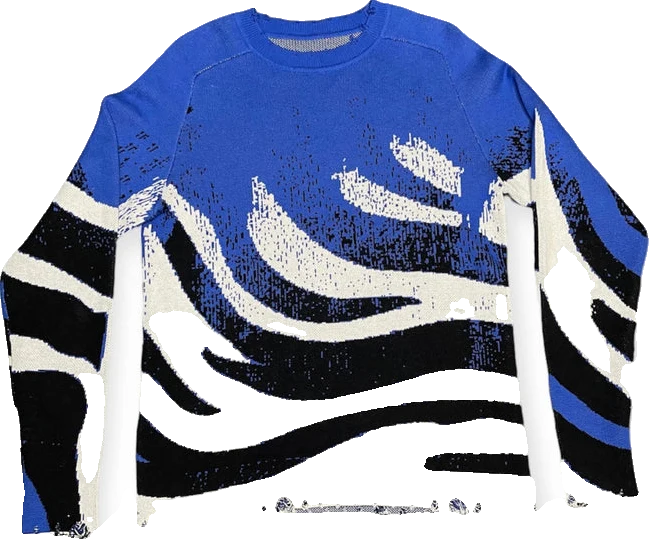
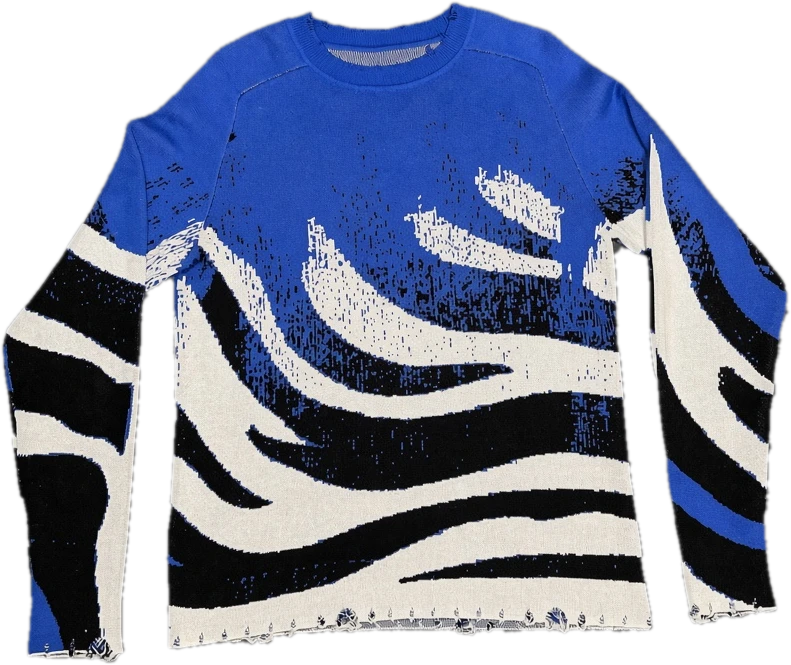
Dark cinematic closet: intro doors, tucked hangers, AI garment renders, cloth physics

diff --git a/app.js b/app.js
@@ -1,14 +1,24 @@
 const $=s=>document.querySelector(s),fmt=n=>'$'+n.toFixed(2),P=window.PRODUCTS;
 const MODEL=['the-essential-mooment-sets-gray','the-essential-mooment-sets-blue'];
 const sets={clothes:P.filter(p=>!p.bag),bags:P.filter(p=>p.bag)};
-const HANGER=`<svg class="hanger" viewBox="0 0 300 120" aria-hidden="true"><defs><linearGradient id="w" x1="0" y1="0" x2="0" y2="1"><stop offset="0" stop-color="#c79a63"/><stop offset=".5" stop-color="#9a6a3a"/><stop offset="1" stop-color="#6e4624"/></linearGradient><linearGradient id="c" x1="0" x2="1"><stop offset="0" stop-color="#8d8d94"/><stop offset=".5" stop-color="#f7f7f9"/><stop offset="1" stop-color="#7a7a82"/></linearGradient></defs><path d="M150 58 C150 40 150 34 150 30 C150 14 168 10 168 24" fill="none" stroke="url(#c)" stroke-width="5" stroke-linecap="round"/><circle cx="150" cy="60" r="7" fill="url(#c)"/><path d="M150 60 Q100 74 18 104 Q8 108 12 114 L288 114 Q292 108 282 104 Q200 74 150 60Z" fill="url(#w)"/><path d="M20 112 L280 112" stroke="#5a381b" stroke-width="3"/></svg>`;
+const OLD_HANGER=`<svg class="hanger" viewBox="0 0 300 120" aria-hidden="true"><defs><linearGradient id="w" x1="0" y1="0" x2="0" y2="1"><stop offset="0" stop-color="#c79a63"/><stop offset=".5" stop-color="#9a6a3a"/><stop offset="1" stop-color="#6e4624"/></linearGradient><linearGradient id="c" x1="0" x2="1"><stop offset="0" stop-color="#8d8d94"/><stop offset=".5" stop-color="#f7f7f9"/><stop offset="1" stop-color="#7a7a82"/></linearGradient></defs><path d="M150 58 C150 40 150 34 150 30 C150 14 168 10 168 24" fill="none" stroke="url(#c)" stroke-width="5" stroke-linecap="round"/><circle cx="150" cy="60" r="7" fill="url(#c)"/><path d="M150 60 Q100 74 18 104 Q8 108 12 114 L288 114 Q292 108 282 104 Q200 74 150 60Z" fill="url(#w)"/><path d="M20 112 L280 112" stroke="#5a381b" stroke-width="3"/></svg>`;
+const HOOK=`<svg class="hk" viewBox="0 0 30 60" preserveAspectRatio="xMidYMin slice" aria-hidden="true"><defs><linearGradient id="hc" x1="0" x2="1"><stop offset="0" stop-color="#6d6d73"/><stop offset=".5" stop-color="#fafafa"/><stop offset="1" stop-color="#5d5d63"/></linearGradient></defs><path d="M15 400 L15 16 C15 4 4 2 3 10 C2 15 6 17 8 15" fill="none" stroke="url(#hc)" stroke-width="3.2" stroke-linecap="round"/></svg>`;
+const HGR=`<svg class="hgr" viewBox="0 0 300 50" aria-hidden="true"><path d="M150 4 Q90 18 8 40 Q0 46 8 48 L292 48 Q300 46 292 40 Q210 18 150 4Z" fill="#8a6a45"/></svg>`;
 const haptic=(el)=>{try{navigator.vibrate&&navigator.vibrate(8)}catch(e){}if(el){el.classList.remove('tap');void el.offsetWidth;el.classList.add('tap')}};
-let mode='clothes',items=[],els=[],x=0,v=0,target=0,th=[],om=[],drag=null,dragV=0,lastAcc=0;
+let sec=[],sv=[],mode='clothes',items=[],els=[],x=0,v=0,target=0,th=[],om=[],drag=null,dragV=0,lastAcc=0;
 const stage=$('#stage'),track=$('#track');
 function build(){items=sets[mode];document.body.classList.toggle('bags',mode=='bags');
  track.innerHTML=items.map((p,i)=>mode=='bags'?`<div class="item bag" data-i="${i}"><img src="${p.cut}" alt="${p.name}" draggable="false"><div class="ped"></div></div>`
- :`<div class="item ${MODEL.includes(p.id)?'model':''}" data-i="${i}">${HANGER}<img src="${p.cut}" alt="${p.name}" draggable="false"></div>`).join('');
- els=[...track.children];th=items.map(()=>0);om=items.map(()=>0);x=target=0;v=0;th[0]=mode=='bags'?.5:.35;info();}
+ :`<div class="item" data-i="${i}">${HOOK}${HGR}<div class="cloth"><img src="${p.cut}" alt="${p.name}" draggable="false"><div class="shade" style="-webkit-mask-image:url(${p.cut});mask-image:url(${p.cut})"></div></div><div class="cast"></div></div>`).join('');
+
+ els=[...track.children];layout();th=items.map(()=>0);om=items.map(()=>0);x=target=0;v=0;th[0]=mode=='bags'?.5:.35;sec=items.map(()=>0);sv=items.map(()=>0);info();}
+function layout(){const vh=innerHeight,vw=innerWidth;els.forEach((e,i)=>{const p=items[i];
+ if(mode=='bags'){const w=Math.min(vw*.7,(vh-400)/p.ar,420);e.style.width=w+'px';e.style.marginLeft=(-w/2)+'px';return}
+ const hookh=Math.max(34,vh*.05),avail=vh-112-hookh-200,w=Math.min(vw*.84,avail/p.ar,500),h=w*p.ar,[nx,ny]=p.hook,neck=ny*h+Math.min(h*.03,14);
+ e.style.width=w+'px';e.style.marginLeft=(-w/2)+'px';e.style.height=(hookh+h-neck)+'px';
+ e.style.setProperty('--ox',nx*w+'px');e.style.setProperty('--neck',neck+'px');e.style.setProperty('--hookh',hookh+'px');e.style.setProperty('--hw',(w*.36)+'px');e.style.setProperty('--tuck',Math.min(h*.09,40)+'px');
+ const c=e.querySelector('.cast');c.style.top=(hookh-neck+h-6)+'px';e._cloth=e.querySelector('.cloth');e._shade=e.querySelector('.shade')})}
+addEventListener('resize',layout);
 function info(){const i=idx(),p=items[i];$('#name').textContent=p.name;$('#price').textContent=fmt(p.price);$('#idx').textContent=(mode=='bags'?'Bags':'Closet')+' · '+(i+1)+' of '+items.length;
  els.forEach((e,j)=>{e.setAttribute('aria-hidden',j!=i)})}
 const idx=()=>Math.max(0,Math.min(items.length-1,Math.round(target)));
@@ -21,7 +31,11 @@ let last=performance.now();function tick(t){let dt=Math.min(.033,(t-last)/1000);
   const a=Math.abs(d);if(a>2.2){e.style.visibility='hidden';return}e.style.visibility='visible';
   const s=1-Math.min(a,1)*.22,deg=th[i]*57.3;
   e.style.transform=mode=='bags'?`translateX(${d*W}px) scale(${s}) rotateY(${deg*1.6}deg) rotate(${deg*.25}deg)`:`translateX(${d*W}px) scale(${s}) rotate(${deg}deg)`;
-  e.style.opacity=1-Math.min(a,1)*.45;e.style.zIndex=10-Math.round(a*3)});
+  e.style.opacity=1-Math.min(a,1)*.55;
+  if(e._cloth){// secondary motion: cloth lags behind hanger like a damped spring
+   const sa=-90*(sec[i]-th[i])-9*sv[i];sv[i]+=sa*dt;sec[i]+=sv[i]*dt;const lag=(sec[i]-th[i])*57.3;
+   e._cloth.style.transform=`rotate(${lag*.6}deg) skewX(${(-om[i]*3.2+lag*.5).toFixed(2)}deg) scaleY(${(1+Math.min(.015,Math.abs(om[i])*.01)).toFixed(4)})`;
+   e._shade.style.setProperty('--la',(deg*2.2).toFixed(1)+'deg')}e.style.zIndex=10-Math.round(a*3)});
  requestAnimationFrame(tick)}
 const width=()=>innerWidth>900?Math.min(innerWidth*.42,520)+80:Math.min(innerWidth*.84,460)*.9;requestAnimationFrame(tick);
 let sx,lx,lt,moved;
@@ -43,7 +57,7 @@ document.querySelectorAll('.sheet').forEach(s=>{let y0=null;s.addEventListener('
 // PDP
 let cur,size;
 function openPDP(){cur=items[idx()];$('#pName').textContent=cur.name;$('#pPrice').textContent=fmt(cur.price);$('#pDesc').textContent=cur.desc||'';
- $('#pGal').innerHTML=[cur.cut,...cur.imgs].map(s=>`<img src="${s}" alt="${cur.name}" loading="lazy">`).join('');
+ $('#pNote').textContent=(cur.ai?'Hanging image is an AI-assisted product render; ':'')+'swipe for real photos & styled looks';$('#pGal').innerHTML=[cur.cut,...cur.imgs].map(s=>`<img src="${s}" alt="${cur.name}" loading="lazy">`).join('');
  const vs=cur.variants;size=(vs.find(v=>v.ok)||vs[0]);
  $('#pSizes').innerHTML=vs.map(v=>`<button role="radio" aria-checked="${v===size}" ${v.ok?'':'disabled'} data-id="${v.id}">${v.t=='Default Title'?'One Size':v.t}</button>`).join('');
  $('#pAdd').disabled=!vs.some(v=>v.ok);$('#pAdd').textContent=vs.some(v=>v.ok)?'Add to Bag':'Sold Out';sheet('#pdp')}
@@ -63,3 +77,8 @@ $('#toCheckout').onclick=()=>{$('#oLines').innerHTML=rows(0);$('#oSub').textCont
 const permalink=()=>'https://www.themooment.com/cart/'+cart.map(l=>l.v+':'+l.q).join(',');
 $('#pay').onclick=e=>{haptic(e.currentTarget);const u=permalink();$('#dLink').href=u;sheet('#done');cart=[];save();setTimeout(()=>{if(open&&open.id=='done')location.href=u},2500)};
 build();draw();
+const intro=$('#intro'),RM=matchMedia('(prefers-reduced-motion: reduce)').matches;
+function enter(fast){if(intro.classList.contains('go'))return;sessionStorage.setItem('tm_intro','1');haptic();
+ if(!fast&&!RM){document.body.classList.add('entering');th[0]=.45;setTimeout(()=>document.body.classList.remove('entering'),2100)}
+ intro.classList.add('go');setTimeout(()=>{intro.remove();stage.focus()},fast||RM?400:1900)}
+if(sessionStorage.getItem('tm_intro'))intro.remove();else{$('#enter').onclick=()=>enter(0);$('#skip').onclick=()=>enter(1);$('#enter').focus()}

diff --git a/style.css b/style.css
@@ -57,3 +57,57 @@ details{margin:16px 0;background:var(--bg);border-radius:12px;padding:12px 14px;
 .empty{padding:28px;text-align:center;color:var(--sec)}
 @media(min-width:900px){.item{width:min(42vw,520px);margin-left:calc(min(42vw,520px)/-2)}}
 @media(prefers-reduced-motion:reduce){*{transition:none!important;animation:none!important}}
+/* ===== DARK PREMIUM OVERRIDES ===== */
+:root{--bg:#050505;--ink:#f5f5f7;--sec:#98989f;--blue:#d6b36a;--acc:#d6b36a;--sep:rgba(255,255,255,.1)}
+html,body{background:#050505;color:var(--ink)}body.bags{background:#050505}
+.bar,.bags .bar{background:rgba(18,18,20,.62);border-color:rgba(255,255,255,.08)}
+.brand{color:#fff;text-shadow:0 0 18px rgba(214,179,106,.35)}
+.seg{background:rgba(118,118,128,.24)}.thumb,.bags .thumb{background:rgba(99,99,102,.9)}
+.room{position:absolute;inset:0;background:radial-gradient(ellipse 70% 55% at 50% 38%,#1d1a16 0%,#0b0a09 55%,#030303 100%)}
+.spot,.bags .spot{display:block;position:absolute;left:50%;top:0;width:min(900px,170vw);height:100%;transform:translateX(-50%);pointer-events:none;background:radial-gradient(ellipse 34% 52% at 50% 34%,rgba(255,232,190,.30),rgba(255,220,160,.08) 55%,transparent 75%);mix-blend-mode:screen}
+.rail{background:linear-gradient(#fff6e0,#c9a35c 40%,#6d5228 60%,#e8cf96);box-shadow:0 0 16px rgba(214,179,106,.45),0 6px 14px rgba(0,0,0,.7);height:9px}
+.floor{position:absolute;left:0;right:0;bottom:0;height:34%;background:linear-gradient(transparent,rgba(214,179,106,.05) 40%,rgba(0,0,0,.6));}
+.item{transform-origin:var(--ox) 0;top:calc(env(safe-area-inset-top,0px) + 112px);margin-left:0}
+.item .hk{position:absolute;z-index:3;width:30px;height:var(--hookh);left:calc(var(--ox) - 6px);top:0}
+.item .hgr{position:absolute;z-index:1;top:calc(var(--neck) - 4px);height:auto;left:calc(var(--ox) - var(--hw)/2);width:var(--hw)}
+.cloth{position:absolute;z-index:2;left:0;top:calc(var(--hookh) - var(--neck));width:100%;transform-origin:var(--ox) var(--neck)}
+.cloth img{display:block;width:100%;height:auto;max-height:none;margin:0;filter:drop-shadow(0 26px 30px rgba(0,0,0,.75)) drop-shadow(0 6px 8px rgba(0,0,0,.5))}
+.shade{position:absolute;inset:0;-webkit-mask-size:100% 100%;mask-size:100% 100%;mix-blend-mode:soft-light;pointer-events:none;background:linear-gradient(calc(160deg + var(--la,0deg)),rgba(255,240,215,.55),rgba(0,0,0,0) 45%,rgba(0,0,0,.65))}
+.cast{position:absolute;z-index:0;left:6%;right:6%;height:30px;border-radius:50%;background:radial-gradient(closest-side,rgba(0,0,0,.65),transparent);filter:blur(8px)}
+.item.bag{top:auto;bottom:calc(var(--safe) + 190px)}
+.item.bag img{max-height:none;width:100%;margin:0;filter:drop-shadow(0 22px 18px rgba(0,0,0,.8));-webkit-box-reflect:below 4px linear-gradient(transparent 70%,rgba(255,255,255,.12))}
+.ped{width:86%;height:56px;margin-top:-4px;border-radius:50%/16px;background:linear-gradient(#2a2a2d,#0c0c0d);box-shadow:0 0 40px rgba(214,179,106,.18),0 30px 40px rgba(0,0,0,.8),inset 0 1px 0 rgba(255,255,255,.25)}
+.ped:before{background:radial-gradient(ellipse,rgba(255,255,255,.22),rgba(40,40,44,.9));height:22px}
+.ped:after{content:"";position:absolute;left:10%;right:10%;top:20px;height:2px;background:linear-gradient(90deg,transparent,var(--acc),transparent);opacity:.7;box-shadow:0 0 12px var(--acc)}
+.nav,.bags .nav{background:rgba(44,44,46,.55);color:#fff;border:1px solid rgba(255,255,255,.12)}
+.card,.bags .card{background:rgba(28,28,30,.6);border:1px solid rgba(255,255,255,.09);box-shadow:0 20px 50px rgba(0,0,0,.6),inset 0 1px 0 rgba(255,255,255,.08)}
+.kicker{color:var(--acc)}.pill,.cta{background:linear-gradient(#e6c784,#b8924a);color:#1a1408;box-shadow:0 6px 20px rgba(214,179,106,.3)}
+.tab{color:#7c7c82}.tab.on{color:var(--acc)}
+.sheet{background:rgba(22,22,24,.9);backdrop-filter:saturate(180%) blur(30px);-webkit-backdrop-filter:saturate(180%) blur(30px);color:var(--ink);border-top:1px solid rgba(255,255,255,.1)}
+.grab{background:#48484a}.close{background:#2c2c2e;color:#aeaeb2}
+.gal img{background:#111}.galnote{color:var(--sec);font-size:12px;margin:0 0 6px}
+.sizes button{background:#1c1c1e;color:#fff;border-color:#3a3a3c}.sizes button[aria-checked=true]{background:var(--acc);color:#1a1408;border-color:var(--acc)}
+details,.list,.group{background:#1c1c1e}.list img{background:#0e0e0f}.step{background:#2c2c2e}.step button{color:#fff}.ghost{color:var(--acc)}
+.check{background:var(--acc);color:#1a1408;box-shadow:0 0 30px rgba(214,179,106,.5)}
+/* intro */
+.intro{position:fixed;inset:0;z-index:100;perspective:1600px;background:#020202;overflow:hidden}
+.glowgap{position:absolute;left:50%;top:0;bottom:0;width:6px;transform:translateX(-50%);background:linear-gradient(transparent,rgba(255,226,170,.95) 30%,rgba(255,226,170,.95) 70%,transparent);box-shadow:0 0 40px 14px rgba(255,210,140,.35),0 0 120px 40px rgba(255,200,120,.12);animation:flick 3s ease-in-out infinite}
+@keyframes flick{50%{opacity:.75}}
+.door{position:absolute;top:0;bottom:0;width:50.2%;background:linear-gradient(90deg,#0d0b0a,#1c1814 45%,#0f0d0b),repeating-linear-gradient(90deg,rgba(255,255,255,.015) 0 2px,transparent 2px 9px);background-blend-mode:screen;box-shadow:inset 0 0 0 14px #0a0908,inset 0 0 0 15px rgba(214,179,106,.25),inset 0 0 80px rgba(0,0,0,.9);transition:transform 1.25s cubic-bezier(.65,0,.25,1)}
+.dl{left:0;transform-origin:0 50%}.dr{right:0;transform-origin:100% 50%}
+.handle{position:absolute;top:44%;width:8px;height:120px;border-radius:4px;background:linear-gradient(90deg,#6d5228,#f3dea6,#8a6a35);box-shadow:0 0 14px rgba(214,179,106,.4)}.dl .handle{right:22px}.dr .handle{left:22px}
+.introtxt{position:absolute;inset:auto 0 16% 0;text-align:center;z-index:2;transition:opacity .4s}
+.brandbig{letter-spacing:.5em;font-weight:700;font-size:clamp(18px,4vw,30px);color:#fff;text-shadow:0 0 30px rgba(214,179,106,.6);margin:0 0 22px}
+.enter{border:1px solid rgba(214,179,106,.7);background:rgba(20,18,14,.5);backdrop-filter:blur(10px);color:#f3dea6;padding:14px 34px;border-radius:999px;font-weight:600;letter-spacing:.12em;cursor:pointer;animation:pulse 2.2s ease-in-out infinite}
+@keyframes pulse{50%{box-shadow:0 0 30px rgba(214,179,106,.45)}}
+.skip{position:absolute;z-index:3;right:16px;top:calc(env(safe-area-inset-top,0px) + 14px);background:rgba(44,44,46,.6);color:#ddd;border:0;border-radius:999px;padding:8px 14px;cursor:pointer;font-size:13px}
+.intro.go .dl{transform:rotateY(-105deg)}.intro.go .dr{transform:rotateY(105deg)}.intro.go .introtxt,.intro.go .skip{opacity:0}
+.intro.go{transition:background .6s .5s,opacity .5s 1.55s;background:transparent;opacity:0;pointer-events:none}
+.intro.go .glowgap{animation:none;transition:all .8s;width:100%;opacity:0}
+body.entering .stage{animation:push 2s cubic-bezier(.2,.7,.2,1) both}@keyframes push{0%{transform:scale(.72);filter:brightness(.15)}45%{filter:brightness(.6)}100%{transform:none;filter:none}}
+body.entering .card,body.entering .bar{animation:fadein .6s 1.4s both}@keyframes fadein{from{opacity:0;transform:translateY(10px)}}
+@media(prefers-reduced-motion:reduce){.intro.go{transition:opacity .3s!important}}
+.nav{z-index:30}
+.item .hk{z-index:1;width:30px;left:calc(var(--ox) - 15px);top:-6px;height:calc(var(--hookh) + var(--tuck) + 10px);overflow:hidden}
+.item .hgr{z-index:1;top:calc(var(--hookh) + var(--tuck) - 2px)}
+.door{width:49.7%}.glowgap{z-index:2;width:3px}.door{z-index:1}

diff --git a/index.html b/index.html
@@ -1,17 +1,20 @@
 <!doctype html><html lang="en"><head><meta charset="utf-8">
-<meta name="viewport" content="width=device-width,initial-scale=1,viewport-fit=cover"><meta name="theme-color" content="#f2f2f7"><meta name="apple-mobile-web-app-capable" content="yes">
+<meta name="viewport" content="width=device-width,initial-scale=1,viewport-fit=cover"><meta name="theme-color" content="#050505"><meta name="apple-mobile-web-app-capable" content="yes">
 <title>The Mooment — Closet</title><link rel="icon" href="data:,"><link rel="stylesheet" href="style.css"></head><body>
+<div id="intro" class="intro" role="dialog" aria-label="Welcome to The Mooment"><div class="glowgap" aria-hidden="true"></div>
+<div class="door dl" aria-hidden="true"><span class="handle"></span></div><div class="door dr" aria-hidden="true"><span class="handle"></span></div>
+<div class="introtxt"><p class="brandbig">THE MOOMENT</p><button id="enter" class="enter">Tap to enter</button></div><button id="skip" class="skip">Skip</button></div>
 <header class="bar top"><div class="brand">THE MOOMENT</div>
 <div class="seg" role="tablist" aria-label="Category"><button role="tab" aria-selected="true" data-mode="clothes">Clothes</button><button role="tab" aria-selected="false" data-mode="bags">Bags</button><span class="thumb"></span></div></header>
 <main id="stage" class="stage" tabindex="0" aria-roledescription="carousel" aria-label="Closet. Swipe or use arrow keys.">
-<div class="rail" aria-hidden="true"></div><div class="spot" aria-hidden="true"></div><div id="track" class="track"></div>
+<div class="room" aria-hidden="true"></div><div class="spot" aria-hidden="true"></div><div class="rail" aria-hidden="true"></div><div class="floor" aria-hidden="true"></div><div id="track" class="track"></div>
 <button class="nav prev" id="prev" aria-label="Previous item">‹</button><button class="nav next" id="next" aria-label="Next item">›</button></main>
 <section class="card" aria-live="polite"><div><p class="kicker" id="idx"></p><h1 id="name"></h1><p class="price" id="price"></p></div><button class="pill" id="shop">Select size</button></section>
 <nav class="bar tabs" aria-label="Tabs"><button class="tab on" id="tCloset"><svg viewBox="0 0 24 24"><path d="M12 3a2 2 0 0 1 2 2c0 1-1 1.5-2 2.2V9l9 7.5c.6.5.3 1.5-.5 1.5H3.5c-.8 0-1.1-1-.5-1.5L12 9"/></svg>Closet</button>
 <button class="tab" id="tBag"><svg viewBox="0 0 24 24"><path d="M5 8h14l-1 12H6zM9 8V6a3 3 0 0 1 6 0v2"/></svg>Bag<b class="badge" id="count" hidden>0</b></button></nav>
 <div class="scrim" id="scrim"></div>
 <div class="sheet" id="pdp" role="dialog" aria-modal="true" aria-labelledby="pName"><div class="grab"></div><button class="close" data-close aria-label="Close">✕</button>
-<div class="gal" id="pGal"></div><h2 id="pName"></h2><p class="price" id="pPrice"></p><p class="lbl">Size</p><div class="sizes" id="pSizes" role="radiogroup" aria-label="Size"></div>
+<div class="gal" id="pGal"></div><p class="galnote" id="pNote"></p><h2 id="pName"></h2><p class="price" id="pPrice"></p><p class="lbl">Size</p><div class="sizes" id="pSizes" role="radiogroup" aria-label="Size"></div>
 <details><summary>Details</summary><p id="pDesc"></p></details><button class="cta" id="pAdd">Add to Bag</button></div>
 <div class="sheet" id="cart" role="dialog" aria-modal="true" aria-labelledby="cT"><div class="grab"></div><button class="close" data-close aria-label="Close">✕</button>
 <h2 id="cT">Bag</h2><ul id="lines" class="list"></ul><div class="sum"><span>Subtotal</span><b id="sub">$0.00</b></div><button class="cta" id="toCheckout">Check Out</button></div>

diff --git a/products.js b/products.js
@@ -20,7 +20,13 @@ window.PRODUCTS=[
     "ok": true
    }
   ],
-  "cut": "cut/untitled-jul29_13-58-51.webp"
+  "cut": "cut/untitled-jul29_13-58-51.webp",
+  "hook": [
+   0.499,
+   0.0,
+   0.337
+  ],
+  "ar": 1.076
  },
  {
   "id": "untitled-jun18_19-55",
@@ -66,7 +72,13 @@ window.PRODUCTS=[
     "ok": true
    }
   ],
-  "cut": "cut/untitled-jun18_19-55.webp"
+  "cut": "cut/untitled-jun18_19-55.webp",
+  "hook": [
+   0.499,
+   0.036,
+   0.795
+  ],
+  "ar": 0.695
  },
  {
   "id": "red-gem-theory",
@@ -117,7 +129,13 @@ window.PRODUCTS=[
     "ok": true
    }
   ],
-  "cut": "cut/red-gem-theory.webp"
+  "cut": "cut/red-gem-theory.webp",
+  "hook": [
+   0.499,
+   0.0,
+   0.518
+  ],
+  "ar": 0.992
  },
  {
   "id": "yellow-gem-theory",
@@ -168,7 +186,13 @@ window.PRODUCTS=[
     "ok": true
    }
   ],
-  "cut": "cut/yellow-gem-theory.webp"
+  "cut": "cut/yellow-gem-theory.webp",
+  "hook": [
+   0.499,
+   0.0,
+   0.519
+  ],
+  "ar": 0.992
  },
  {
   "id": "dual-essence",
@@ -191,7 +215,13 @@ window.PRODUCTS=[
     "ok": false
    }
   ],
-  "cut": "cut/dual-essence.webp"
+  "cut": "cut/dual-essence.webp",
+  "hook": [
+   0.499,
+   0.0,
+   0.376
+  ],
+  "ar": 1.09
  },
  {
   "id": "the-essential-mooment-sets-gray",
@@ -236,7 +266,14 @@ window.PRODUCTS=[
     "ok": true
    }
   ],
-  "cut": "cut/the-essential-mooment-sets-gray.webp"
+  "cut": "cut/the-essential-mooment-sets-gray.webp",
+  "hook": [
+   0.499,
+   0.003,
+   0.596
+  ],
+  "ar": 1.541,
+  "ai": 1
  },
  {
   "id": "the-essential-mooment-sets-blue",
@@ -283,7 +320,13 @@ window.PRODUCTS=[
     "ok": false
    }
   ],
-  "cut": "cut/the-essential-mooment-sets-blue.webp"
+  "cut": "cut/the-essential-mooment-sets-blue.webp",
+  "hook": [
+   0.499,
+   0.0,
+   0.476
+  ],
+  "ar": 1.637
  },
  {
   "id": "gem-theory-black",
@@ -330,7 +373,13 @@ window.PRODUCTS=[
     "ok": false
    }
   ],
-  "cut": "cut/gem-theory-black.webp"
+  "cut": "cut/gem-theory-black.webp",
+  "hook": [
+   0.499,
+   0.009,
+   0.31
+  ],
+  "ar": 0.805
  },
  {
   "id": "proof-of-pressure-tee-ivory",
@@ -376,7 +425,13 @@ window.PRODUCTS=[
     "ok": false
    }
   ],
-  "cut": "cut/proof-of-pressure-tee-ivory.webp"
+  "cut": "cut/proof-of-pressure-tee-ivory.webp",
+  "hook": [
+   0.499,
+   0.034,
+   0.799
+  ],
+  "ar": 0.766
  },
  {
   "id": "gem-theory-hoodie-purple",
@@ -423,7 +478,13 @@ window.PRODUCTS=[
     "ok": false
    }
   ],
-  "cut": "cut/gem-theory-hoodie-purple.webp"
+  "cut": "cut/gem-theory-hoodie-purple.webp",
+  "hook": [
+   0.499,
+   0.06,
+   0.328
+  ],
+  "ar": 1.103
  },
  {
   "id": "gem-theory-hoodie-blue",
@@ -464,7 +525,13 @@ window.PRODUCTS=[
     "ok": false
    }
   ],
-  "cut": "cut/gem-theory-hoodie-blue.webp"
+  "cut": "cut/gem-theory-hoodie-blue.webp",
+  "hook": [
+   0.499,
+   0.209,
+   0.7
+  ],
+  "ar": 1.155
  },
  {
   "id": "blue-wavy-sweater",
@@ -522,7 +589,14 @@ window.PRODUCTS=[
     "ok": true
    }
   ],
-  "cut": "cut/blue-wavy-sweater.webp"
+  "cut": "cut/blue-wavy-sweater.webp",
+  "hook": [
+   0.498,
+   0.041,
+   0.608
+  ],
+  "ar": 0.841,
+  "ai": 1
  },
  {
   "id": "pink-wavy-sweater",
@@ -580,6 +654,13 @@ window.PRODUCTS=[
     "ok": false
    }
   ],
-  "cut": "cut/pink-wavy-sweater.webp"
+  "cut": "cut/pink-wavy-sweater.webp",
+  "hook": [
+   0.499,
+   0.012,
+   0.591
+  ],
+  "ar": 0.802,
+  "ai": 1
  }
 ];
